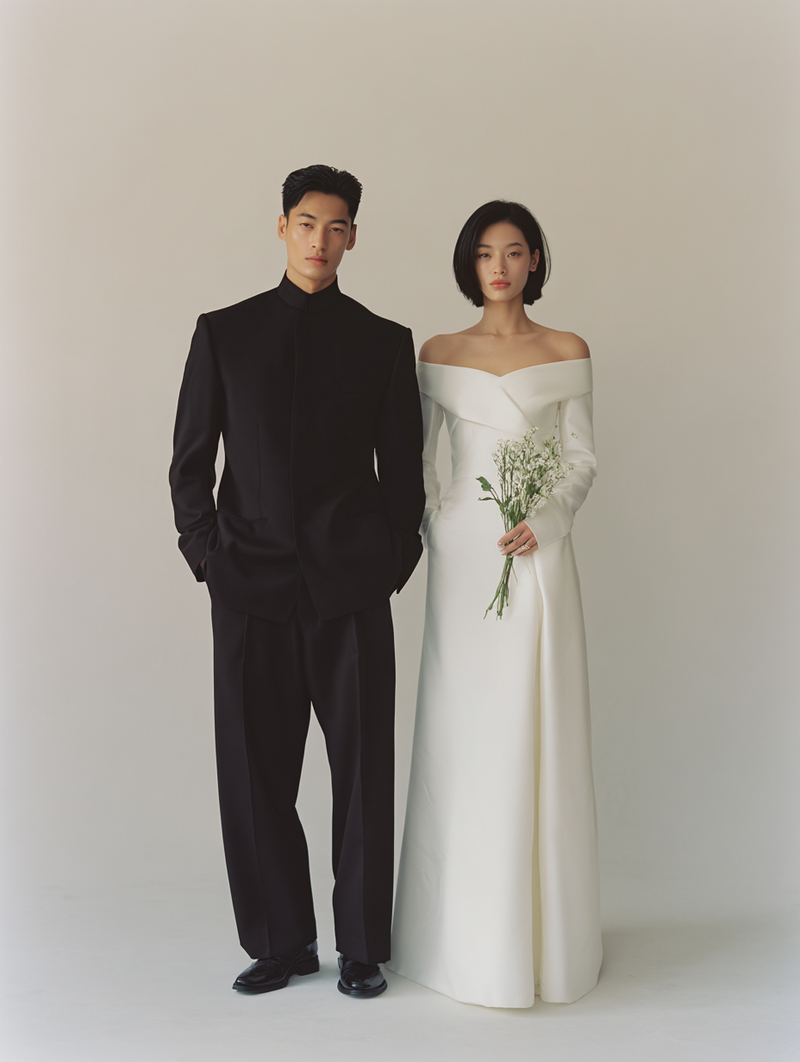
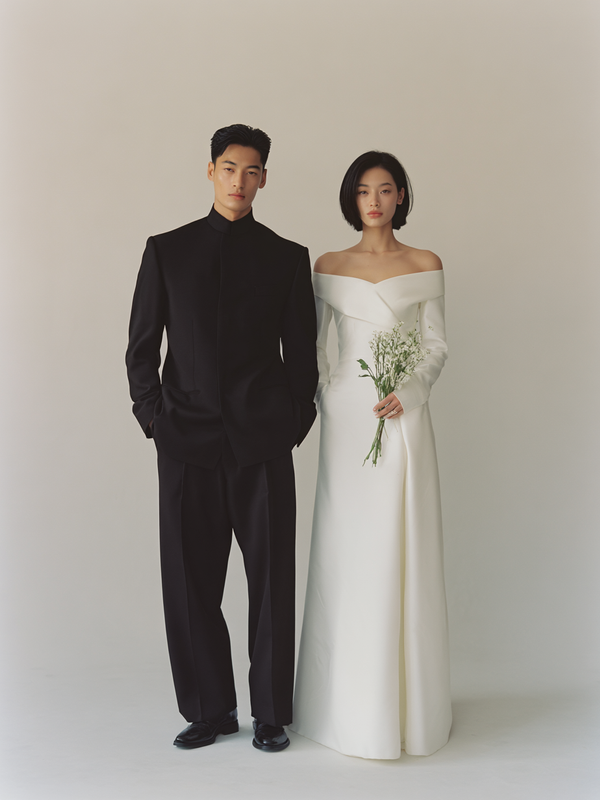
카카오 썸네일 비율 수정

diff --git a/src/share.ts b/src/share.ts
@@ -3,9 +3,9 @@ import { copyText, COPY_TOAST, mountCopyToast, showCopyToast } from "./copy-toas
 const SHARE = {
   title: "정호♥채현 결혼합니다.",
   description: "4월 25일 토요일 낮 11시 노블발렌티 대치점",
-  imagePath: "/images/og-kakao.png?v=2",
-  imageWidth: 800,
-  imageHeight: 1062,
+  imagePath: "/images/og-kakao.png?v=3",
+  imageWidth: 600,
+  imageHeight: 800,
 } as const;
 
 type KakaoShareSdk = {
@@ -13,6 +13,8 @@ type KakaoShareSdk = {
   isInitialized: () => boolean;
   Share: {
     sendDefault: (payload: Record<string, unknown>) => void;
+    sendScrap: (payload: Record<string, unknown>) => void;
+    sendCustom: (payload: Record<string, unknown>) => void;
   };
 };
 
@@ -31,11 +33,22 @@ function sharePageUrl(): string {
   return `${siteUrl()}/`;
 }
 
+function shareImageUrl(): string {
+  return `${siteUrl()}${SHARE.imagePath}`;
+}
+
 function kakaoJsKey(): string | undefined {
   const key =
     import.meta.env.VITE_KAKAO_JAVASCRIPT_KEY ||
     import.meta.env.VITE_KAKAO_MAP_APP_KEY;
   return key?.trim() || undefined;
+}
+
+function shareTemplateId(): number | undefined {
+  const raw = import.meta.env.VITE_KAKAO_SHARE_TEMPLATE_ID?.trim();
+  if (!raw) return undefined;
+  const id = Number(raw);
+  return Number.isFinite(id) && id > 0 ? id : undefined;
 }
 
 function loadKakaoSdk(): Promise<KakaoShareSdk> {
@@ -88,16 +101,34 @@ function loadKakaoSdk(): Promise<KakaoShareSdk> {
   });
 }
 
+/** 커스텀 스크랩 템플릿(600×800) — 세로형 카드 */
+function shareWithScrapTemplate(
+  kakao: KakaoShareSdk,
+  url: string,
+  templateId: number,
+): void {
+  kakao.Share.sendScrap({
+    requestUrl: url,
+    templateId,
+  });
+}
+
 async function shareViaKakaoTalk(): Promise<void> {
   const url = sharePageUrl();
   const kakao = await loadKakaoSdk();
+  const templateId = shareTemplateId();
+
+  if (templateId) {
+    shareWithScrapTemplate(kakao, url, templateId);
+    return;
+  }
 
   kakao.Share.sendDefault({
     objectType: "feed",
     content: {
       title: SHARE.title,
       description: SHARE.description,
-      imageUrl: `${siteUrl()}${SHARE.imagePath}`,
+      imageUrl: shareImageUrl(),
       imageWidth: SHARE.imageWidth,
       imageHeight: SHARE.imageHeight,
       link: {
@@ -163,8 +194,13 @@ export function renderShareHtml(): string {
           />
         </button>
       </div>
+      <p
+        class="m-0 mt-3 text-[0.65rem] font-extralight leading-relaxed tracking-tight text-[#999999]"
+      >
+        세로형 미리보기는 위 노란 공유 버튼을 이용해 주세요.
+      </p>
       <img
-        class="mx-auto mt-12 block h-auto w-[5.875rem]"
+        class="mx-auto mt-10 block h-auto w-[5.875rem]"
         src="/icons/copyright.svg"
         alt="© FOR MAY"
         width="94"

diff --git a/index.html b/index.html
@@ -20,12 +20,12 @@
       content="4월 25일 토요일 낮 11시 노블발렌티 대치점"
     />
     <meta property="og:url" content="__OG_SITE_URL__/" />
-    <!-- 카카오·OG: 세로 원본 비율(3:4) 유지 — og-kakao.png -->
+    <!-- 카카오 OG: 세로 3:4 (600×800) — 커스텀 스크랩 템플릿과 동일 비율 -->
     <meta property="og:image" content="__OG_IMAGE_URL__" />
     <meta property="og:image:secure_url" content="__OG_IMAGE_URL__" />
     <meta property="og:image:type" content="image/png" />
-    <meta property="og:image:width" content="800" />
-    <meta property="og:image:height" content="1062" />
+    <meta property="og:image:width" content="600" />
+    <meta property="og:image:height" content="800" />
     <meta property="og:image:alt" content="정호와 채현의 결혼식 초대" />
     <meta name="twitter:card" content="summary_large_image" />
     <meta name="twitter:title" content="정호♥채현 결혼합니다." />

diff --git a/vite.config.ts b/vite.config.ts
@@ -16,7 +16,7 @@ function ogMetaPlugin(): Plugin {
         process.env.URL ||
         "http://localhost:5173"
       ).replace(/\/$/, "");
-      const imageUrl = `${siteUrl}/images/og-kakao.png?v=2`;
+      const imageUrl = `${siteUrl}/images/og-kakao.png?v=3`;
       return html
         .replaceAll("__OG_SITE_URL__", siteUrl)
         .replaceAll("__OG_IMAGE_URL__", imageUrl);

diff --git a/src/vite-env.d.ts b/src/vite-env.d.ts
@@ -3,6 +3,7 @@
 interface ImportMetaEnv {
   readonly VITE_SITE_URL?: string;
   readonly VITE_KAKAO_JAVASCRIPT_KEY?: string;
+  readonly VITE_KAKAO_SHARE_TEMPLATE_ID?: string;
   readonly VITE_KAKAO_MAP_APP_KEY?: string;
 }
 